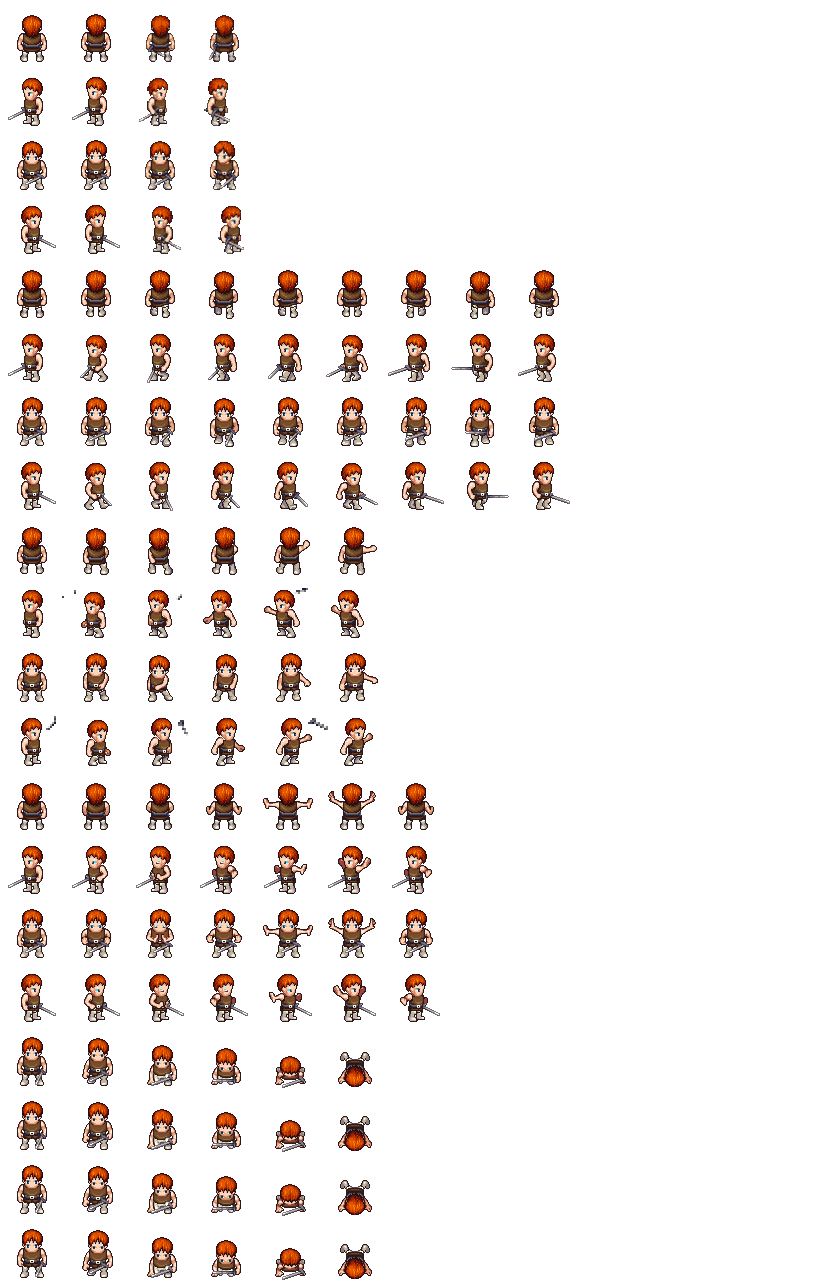
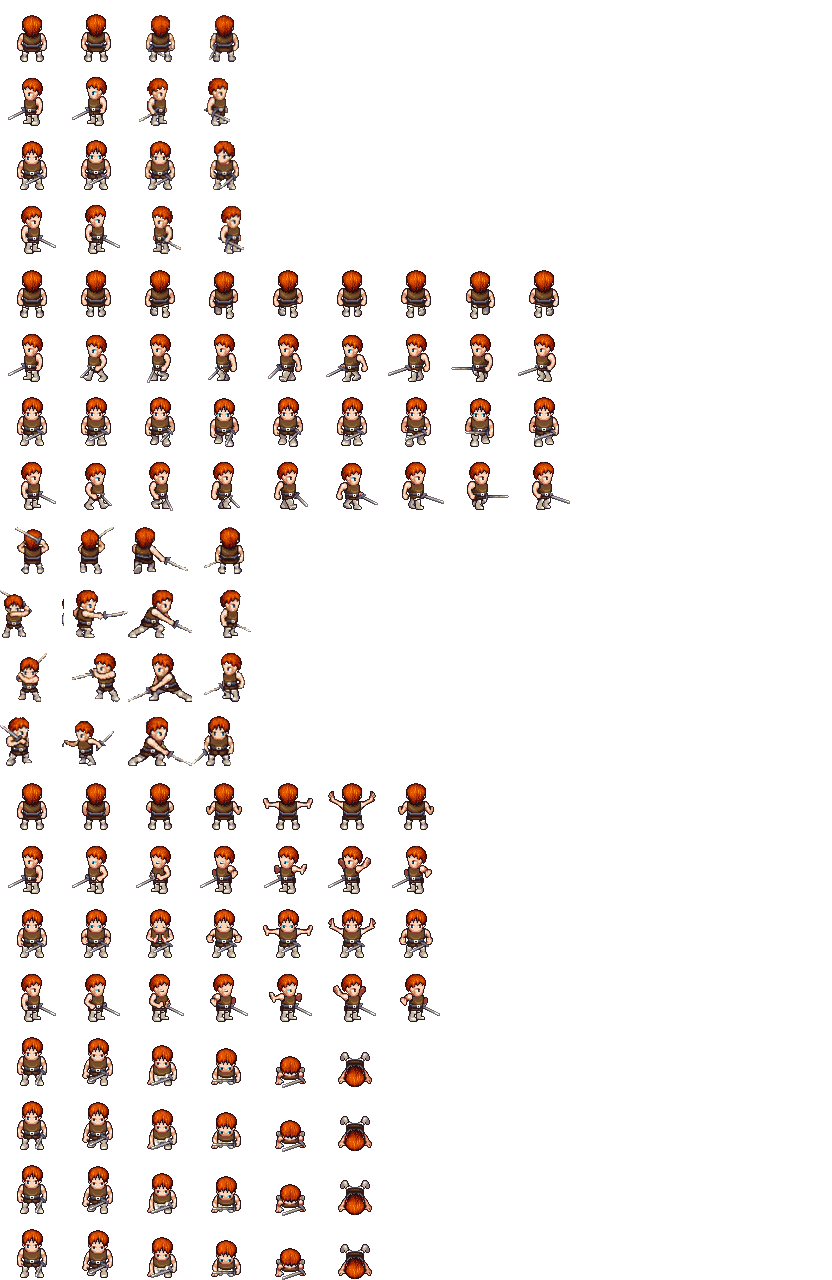
H7.3 batch 1 + H5.5 complete: monsters swing real attacks
H5.5 is done: 21/21 archetypes carry four idle frames. This batch generated the
last four bosses (ashen herald, slag wraith, frost giant, choir priest), so every
monster, story boss and boss the world spawns has a weight-shift and a
look-around pose, alongside the four hero armour looks.

H7.3 is 6 of 20: goblin, raider, raider brute, emberling, minotaur and troll now
swing hand-generated four-pose attacks (wind-up, strike begun, impact, recovery)
in all four directions, with the weapon in the fist in every pose. The reference
for each sheet is the character's own composed swing block, so the model is
conditioned on the right character holding the right weapon.

Worth recording why this mattered: the LPC attack film that H7.1 composited is a
pale crescent *swing trail*, not a held sword. It is geometrically correct — a
clean 2x upscale (99.2% of 2x2 blocks uniform), and compositing it over the
matching body row lands the arc exactly at the hand — but the melee read was an
effect rather than a weapon. Generated attack art fixes that by construction, and
weapon_column_ok() already stops the film drawing over the generated frames.

Tooling, both from real sheets that came back odd:
* A column whose poses touch (the minotaur's raised mace met the pose above it)
  read as one pixel run and failed the sheet. It now splits that column's ink
  evenly into the expected rows; a column with extra runs keeps the topmost ones.
[…]

Changed region(s): [[0.0, 0.4062, 0.375, 0.625], [0.4062, 0.4062, 0.4375, 0.5938]]

diff --git a/tools/make_idle_frames.py b/tools/make_idle_frames.py
@@ -135,6 +135,21 @@ def split_poses(img: Image.Image, rows: int) -> dict:
     for d_i, (x0, x1) in enumerate(col_runs):
         band = alpha[:, x0:x1]
         row_runs = [r for r in _runs(band.any(axis=1).tolist()) if r[1] - r[0] >= 8]
+        if len(row_runs) < rows:
+            # Two poses that touch — a raised weapon meeting the pose above it —
+            # read as one run, and the generator gives no rule for which. Split
+            # the column's ink evenly instead of failing the whole sheet.
+            ink = np.nonzero(band.any(axis=1))[0]
+            if ink.size:
+                y0, y1 = int(ink.min()), int(ink.max()) + 1
+                step = (y1 - y0) / float(rows)
+                row_runs = [(int(y0 + step * i), int(y0 + step * (i + 1))) for i in range(rows)]
+                print("  note: column %s had %d pose rows, split evenly into %d"
+                      % (DIRS[d_i], len(_runs(band.any(axis=1).tolist())), rows))
+        if len(row_runs) > rows:
+            # Extra rows: keep the topmost `rows` runs, which are the ones that
+            # start at the character's head rather than at a stray mark below.
+            row_runs = row_runs[:rows]
         if len(row_runs) != rows:
             raise ValueError("column %s: expected %d poses, found %d %s"
                              % (DIRS[d_i], rows, len(row_runs), row_runs))

diff --git a/ROADMAP-v4-ui-fight.md b/ROADMAP-v4-ui-fight.md
@@ -82,7 +82,7 @@ safe-ground report 9.69 %, balance band check, screenshot + APK artifacts).
 - [x] **H5.4** Separation: `Enemy._separation_vector()` (46 px) and
       `NPCController._separate_from_neighbours()` (soft 46 px). Measured on the
       built settlements, the closest pair of residents is 136 px apart.
-- [~] **H5.5 [image-gen]** Extra idle-only frames (look-around / shift-weight).
+- [x] **H5.5 [image-gen]** Extra idle-only frames (look-around / shift-weight).
       *Done: `tools/make_idle_frames.py` turns one generated sheet per character
       (4 direction columns x 2 poses: weight shift, look around) into idle columns
       2-3, cutting each pose out by empty-projection runs, mirroring a wrongly
@@ -92,10 +92,10 @@ safe-ground report 9.69 %, balance band check, screenshot + APK artifacts).
       and a resting monster turns to look around every few seconds.
       `lpc_compose.py` calls the patcher, so recomposing cannot lose the frames
       (recompose + patch is byte-identical).*
-      **20 of 24 sheets are paid for** — the 16 monsters and story bosses the
-      world spawns, plus all four hero armour looks. The four remaining bosses
-      (ashen herald, slag wraith, frost giant, choir priest) are the same
-      pipeline and keep their two-frame idle until they are generated.
+      **Complete: 21/21 archetypes** — every monster, story boss and boss the
+      world spawns (25 sheets in the manifest, including all four hero armour
+      looks) carries four idle frames. `make_idle_frames.py --status` reports the
+      live count.
       *A generated sheet may draw more rotations than LPC has directions (the
       shaman came back with six); the cutter samples evenly across the cardinals
       instead of failing.* Covered by `items_test` (4 checks) and `combat_test`
@@ -136,7 +136,7 @@ safe-ground report 9.69 %, balance band check, screenshot + APK artifacts).
       slash plus a rotation tween, so the hero never stands still mid-swing.
       `combat_test` verifies the hero path per armour look (219 checks).
 
-- [ ] **H7.3 [image-gen]** *"Build the fight animations for the monsters and the
+- [~] **H7.3 [image-gen]** *"Build the fight animations for the monsters and the
       bosses the same way."* H7.1 gives every armed character a real weapon swing
       by compositing the LPC attack film, and H7.2 gives the hero hand-generated
       four-pose attack art. This item gives monsters and bosses the same
@@ -145,6 +145,10 @@ safe-ground report 9.69 %, balance band check, screenshot + APK artifacts).
       swing, impact, recovery), cut and pasted into rows 2-3 by
       `make_idle_frames.py`, with the LPC film as the fallback for anything not
       yet generated. 20 characters; same batching as H5.5.
+      *Progress: 6 of 20 — goblin, raider, raider brute, emberling, minotaur and
+      troll swing generated four-pose attacks (wind-up, swing, impact, recovery)
+      in all four directions; `combat_test` proves each sheet's four poses differ
+      from one another and that the enemy runtime plays them (221 checks).*
 
 ## Field reports folded into this pass
 

diff --git a/DECISIONS.md b/DECISIONS.md
@@ -1080,3 +1080,28 @@ cannot resolve `class_name` globals and every suite dies instantly with
 "Identifier X not declared in the current scope" — which looks like a code
 regression and is not. Always run `godot --headless --import` after removing
 `.godot/` (one import, ~10 s) before trusting a test result.
+
+**#71 — The LPC weapon film is a slash arc, not a sword in the hand** · 2026-09-11
+H7.1 claimed 16 armed characters "swing". Looking at the goblin's south slash
+row, they do not: the LPC `attack_slash` film is a pale crescent that sweeps
+past the body, so the melee read was an effect rather than a weapon. The film is
+geometrically right — it is a clean 2x upscale (99.2% of 2x2 blocks uniform, so
+halving lands it back on the 64 px grid) and compositing it over the matching
+body row puts the arc exactly where the hand is — but LPC draws that animation
+as a swing trail. The fix is not a better offset: it is the generated attack art
+of H7.3, where the weapon is in the fist by construction. `weapon_column_ok()`
+already suppresses the film per column once a sheet has real attack frames, so
+generated art and the film never draw twice.
+
+**#72 — Generated grids are only *usually* well-formed; cut what you can** · 2026-09-11
+Two generator habits cost sheets today, and neither is worth failing over:
+* More rotation columns than LPC has directions (the shaman returned six evenly
+  spaced facings): sample four evenly across the run list — back, both profiles,
+  front — and say so in the log.
+* Poses that touch, so two of them read as a single pixel run (the minotaur's
+  raised mace met the pose above it, and two of its four columns merged): split
+  that column's ink evenly into the expected number of rows instead of raising.
+  A column with *extra* runs keeps the topmost ones, which are the ones that
+  start at the head.
+Both are logged as `note:` lines, so a cut that needed help is visible in the
+build output rather than silently guessed at.

diff --git a/CREDITS.md b/CREDITS.md
@@ -137,3 +137,12 @@ all sending to Master, which is what the three volume sliders in Settings drive.
 |---|---|---|---|
 | Press Start 2P (UI default theme) | CodeMan38 | OFL-1.1 | ✅ in repo (`assets/fonts/PressStart2P.ttf`, via google/fonts) |
 | UI 9-patch frames (panel9/button9, `tools/gen_ui_assets.py`) | This project | CC0 | ✅ in repo (`assets/ui/`) |
+
+## AI-generated pose art
+
+The extra idle frames (H5.5) and the four-pose attack sheets (H7.2 hero, H7.3
+monsters) are AI-generated pixel art produced for this project, conditioned on
+the composed LPC sheets as visual references. They are pasted into the composed
+sheets by `tools/make_idle_frames.py`; the underlying characters, weapons and
+armour remain the CC-BY-SA-3.0 / GPL LPC work credited above, so sheets that
+carry generated frames stay under the same share-alike terms.
